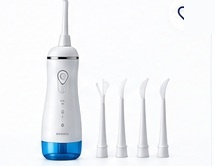
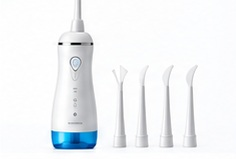
Add files via upload

diff --git a/styles.css b/styles.css
@@ -1,12 +1,1 @@
-*{box-sizing:border-box}body{margin:0;font-family:Arial;color:#06295b}a{text-decoration:none;color:inherit}.top{background:#0879d9;color:#fff;text-align:center;padding:10px;font-size:11px}header{height:64px;padding:0 10vw;display:grid;grid-template-columns:1fr 1fr 1fr;align-items:center;border-bottom:1px solid #e4ebf2}header>b{font-size:24px}span{color:#0aa9dc}header nav{text-align:center;font-size:12px}header>div{text-align:right;font-size:10px}.hero{height:365px;background:#e5f4fc;display:grid;grid-template-columns:1fr 1.05fr;overflow:hidden}.hero>div{padding-left:11vw;align-self:center}.hero small{font-size:10px;font-weight:bold}.hero h1{font-size:55px;line-height:.96;letter-spacing:-3px;margin:10px 0}.hero em{font-style:normal;color:#087df0}.hero p{line-height:1.5;color:#355574}.hero a{display:inline-block;background:#087df0;color:#fff;padding:14px 30px;border-radius:30px;font-weight:bold}.hero>img{width:100%;height:100%;object-fit:cover}.benefits{padding:22px 9vw;display:grid;grid-template-columns:repeat(4,1fr);border-bottom:1px solid #e4ebf2}.benefits p{margin:0;text-align:center;color:#087df0}.benefits b{font-size:11px;color:#06295b}.benefits small{display:block;color:#71849a;font-size:9px;margin-top:4px}.shop{padding:28px 5vw 35px}.head{display:flex;justify-content:space-between;align-items:center}.head h2{font-size:29px}.head a{font-size:10px;color:#087df0}.grid{display:grid;grid-template-columns:repeat(6,1fr);gap:12px}.grid article{border:1px solid #dfe7ef;border-radius:10px;overflow:hidden;padding-bottom:12px}.pic{height:175px;position:relative;overflow:hidden;background:#f7fafc}.pic img{width:100%;height:100%;object-fit:cover}.pic i{position:absolute;right:10px;top:9px;background:#fff;border-radius:50%;padding:6px;font-style:normal}.grid h3{font-size:11px;margin:12px;min-height:26px}.grid strong{display:block;margin:0 12px 10px}.grid button{width:calc(100% - 24px);margin:0 12px;padding:10px;border:0;border-radius:22px;background:#087df0;color:#fff;cursor:pointer}footer{background:#062d59;color:#fff;padding:40px 7vw;display:grid;grid-template-columns:2fr 1fr 2fr 1fr;align-items:end;font-size:10px}footer>b{font-size:22px}@media(max-width:1000px){.grid{grid-template-columns:repeat(3,1fr)}.pic{height:230px}}@media(max-width:650px){header{padding:0 18px;grid-template-columns:1fr 1fr}header nav{display:none}.hero{height:auto;grid-template-columns:1fr}.hero>div{padding:50px 24px}.hero h1{font-size:46px}.hero>img{height:300px}.benefits{grid-template-columns:1fr 1fr;gap:20px}.grid{grid-template-columns:1fr 1fr}.pic{height:220px}footer{grid-template-columns:1fr;gap:15px}}@media(max-width:430px){.grid{grid-template-columns:1fr}.pic{height:300px}}
-/* FINAL POLISH */
-.grid article{display:flex;flex-direction:column;height:100%}
-.grid h3{line-height:1.35;margin-bottom:8px}
-.grid strong{margin-top:auto}
-.grid button{font-weight:600;transition:transform .15s ease,opacity .15s ease}
-.grid button:hover{transform:translateY(-1px);opacity:.92}
-.pic{background:#f8fafc}
-.pic img{object-position:center center}
-.head{margin-bottom:4px}
-footer{min-height:110px}
-@media(max-width:1000px){.grid article{min-height:0}}
+*{box-sizing:border-box}html{scroll-behavior:smooth}body{margin:0;font-family:Arial,sans-serif;color:#06295b}a{text-decoration:none;color:inherit}.top{height:35px;background:#0879d9;color:#fff;text-align:center;padding:10px;font-size:11px}header{height:65px;padding:0 10vw;display:grid;grid-template-columns:1fr 1fr 1fr;align-items:center;border-bottom:1px solid #e5edf4;background:#fff}header>b{font-size:24px}span{color:#12a7dc}header nav{display:flex;justify-content:center;gap:36px;font-size:12px}header>div{text-align:right;font-size:10px}.hero{height:365px;display:grid;grid-template-columns:1fr 1.05fr;background:#e4f4fc;overflow:hidden}.hero>div{padding-left:11vw;align-self:center}.hero small{font-size:10px;font-weight:bold}.hero h1{font-size:55px;line-height:.96;letter-spacing:-3px;margin:10px 0 15px}.hero em{font-style:normal;color:#087df0}.hero p{color:#355574;line-height:1.5}.hero a{display:inline-block;background:#087df0;color:#fff;border-radius:28px;padding:14px 29px;font-weight:bold}.hero>img{width:100%;height:100%;object-fit:cover}.benefits{padding:22px 9vw;display:grid;grid-template-columns:repeat(4,1fr);border-bottom:1px solid #e4ebf2}.benefits>div{display:flex;justify-content:center;align-items:center;gap:12px;color:#087df0}.benefits p{margin:0;color:#06295b;font-size:11px}.benefits small{display:block;color:#74879c;font-size:9px;margin-top:4px}.shop{padding:40px 5vw}.heading{display:flex;justify-content:space-between;align-items:center}.heading h2{font-size:29px}.heading a{font-size:10px;color:#087df0}.grid{display:grid;grid-template-columns:repeat(6,1fr);gap:12px}.grid article{border:1px solid #dfe7ef;border-radius:10px;overflow:hidden;padding-bottom:12px;display:flex;flex-direction:column;background:#fff}.grid img{width:100%;height:180px;object-fit:cover;display:block}.grid h3{font-size:11px;margin:12px;min-height:27px}.grid strong{font-size:15px;margin:0 12px 10px;margin-top:auto}.grid button{margin:0 12px;border:0;border-radius:22px;padding:10px;background:#087df0;color:#fff;font-weight:bold;cursor:pointer}.about{padding:80px 8vw;background:#edf7fc}.about h2{font-size:45px;margin:0 0 12px}.about p{color:#4b6680}footer{background:#062d59;color:#fff;padding:40px 7vw;display:grid;grid-template-columns:2fr 1fr 2fr 1fr;align-items:end;font-size:10px}footer>b{font-size:22px}@media(max-width:1000px){.grid{grid-template-columns:repeat(3,1fr)}.grid img{height:230px}}@media(max-width:650px){header{padding:0 18px;grid-template-columns:1fr 1fr}header nav{display:none}.hero{height:auto;grid-template-columns:1fr}.hero>div{padding:50px 24px}.hero h1{font-size:46px}.hero>img{height:300px}.benefits{grid-template-columns:1fr 1fr;gap:20px}.grid{grid-template-columns:1fr 1fr}.grid img{height:220px}footer{grid-template-columns:1fr;gap:15px}}@media(max-width:430px){.grid{grid-template-columns:1fr}.grid img{height:300px}}

diff --git a/index.html b/index.html
@@ -1,12 +1,16 @@
 <!doctype html><html lang="en"><head><meta charset="utf-8"><meta name="viewport" content="width=device-width,initial-scale=1"><title>VITALDENTSK</title><link rel="stylesheet" href="styles.css"></head><body>
-<div class="top">🚚 Free Shipping on Orders Over $50　|　Better Care. Brighter Smiles.</div><header><b>♡ VITAL<span>DENTSK</span></b><nav>Home　　<a href="#shop">Shop</a>　　About　　Contact</nav><div>⌕ Search　 🛒 <i id="cart">0</i>　☰</div></header>
-<section class="hero"><div><small>PREMIUM ORAL CARE</small><h1>Better Care.<br><em>Brighter Smiles.</em></h1><p>Modern dental products designed for a healthier,<br>cleaner and more confident smile.</p><a href="#shop">Shop Now　→</a></div><img src="hero.jpg"></section>
-<section class="benefits"><p>♢ <b>High Quality</b><small>Trusted Products</small></p><p>▣ <b>Fast Shipping</b><small>On Orders Over $50</small></p><p>♧ <b>Everyday Care</b><small>Simple oral routines</small></p><p>♙ <b>Made for You</b><small>Modern essentials</small></p></section>
-<section class="shop" id="shop"><div class="head"><h2>Featured Products</h2><a>View All Products →</a></div><div class="grid">
-<article><div class="pic"><img src="product1.jpg"></div><h3>Sonic Toothbrush Pro</h3><strong>$49.99</strong><button>Add to Cart</button></article>
-<article><div class="pic"><img src="product2.jpg"></div><h3>Manual Toothbrush Set</h3><strong>$14.99</strong><button>Add to Cart</button></article>
-<article><div class="pic"><img src="product3.jpg"></div><h3>Dental Floss (3 Pack)</h3><strong>$12.99</strong><button>Add to Cart</button></article>
-<article><div class="pic"><img src="product4.jpg"></div><h3>Water Flosser</h3><strong>$59.99</strong><button>Add to Cart</button></article>
-<article><div class="pic"><img src="product5.jpg"></div><h3>Travel Oral Care Kit</h3><strong>$29.99</strong><button>Add to Cart</button></article>
-<article><div class="pic"><img src="product6.jpg"></div><h3>Replacement Brush Heads</h3><strong>$19.99</strong><button>Add to Cart</button></article></div></section>
-<footer><b>♡ VITAL<span>DENTSK</span></b><p>Better Care. Brighter Smiles.</p><p>Home　Shop　About　Contact</p><small>© 2026 VITALDENTSK</small></footer><script src="script.js"></script></body></html>
+<div class="top">🚚 Free Shipping on Orders Over $50　 |　 Better Care. Brighter Smiles.</div>
+<header><b>♡ VITAL<span>DENTSK</span></b><nav><a href="#">Home</a><a href="#shop">Shop</a><a href="#about">About</a><a href="#contact">Contact</a></nav><div>⌕ Search　 🛒 <i id="cart">0</i>　☰</div></header>
+<section class="hero"><div><small>PREMIUM ORAL CARE</small><h1>Better Care.<br><em>Brighter Smiles.</em></h1><p>Modern dental products designed for a healthier,<br>cleaner and more confident smile.</p><a href="#shop">Shop Now　→</a></div><img src="hero.jpg" alt="VITALDENTSK oral care"></section>
+<section class="benefits"><div>◇ <p><b>High Quality</b><small>Trusted Products</small></p></div><div>▣ <p><b>Fast Shipping</b><small>On qualifying orders</small></p></div><div>♧ <p><b>Everyday Care</b><small>Simple oral routines</small></p></div><div>♙ <p><b>Made for You</b><small>Modern essentials</small></p></div></section>
+<section class="shop" id="shop"><div class="heading"><h2>Featured Products</h2><a href="#shop">View All Products →</a></div><div class="grid">
+<article><img src="product1.jpg"><h3>Sonic Toothbrush Pro</h3><strong>$49.99</strong><button>Add to Cart</button></article>
+<article><img src="product2.jpg"><h3>Manual Toothbrush Set</h3><strong>$14.99</strong><button>Add to Cart</button></article>
+<article><img src="product3.jpg"><h3>Dental Floss (3 Pack)</h3><strong>$12.99</strong><button>Add to Cart</button></article>
+<article><img src="product4.jpg"><h3>Water Flosser</h3><strong>$59.99</strong><button>Add to Cart</button></article>
+<article><img src="product5.jpg"><h3>Travel Oral Care Kit</h3><strong>$29.99</strong><button>Add to Cart</button></article>
+<article><img src="product6.jpg"><h3>Replacement Brush Heads</h3><strong>$19.99</strong><button>Add to Cart</button></article>
+</div></section>
+<section id="about" class="about"><h2>Better everyday oral care.</h2><p>Clean design. Simple routines. Modern essentials.</p></section>
+<footer id="contact"><b>♡ VITAL<span>DENTSK</span></b><p>Better Care. Brighter Smiles.</p><p>Home　 Shop　 About　 Contact</p><small>© 2026 VITALDENTSK</small></footer>
+<script src="script.js"></script></body></html>

diff --git a/script.js b/script.js
@@ -1,1 +1,1 @@
-let n=0,c=document.getElementById('cart');document.querySelectorAll('button').forEach(b=>b.onclick=()=>{c.textContent=++n;b.textContent='✓ Added';setTimeout(()=>b.textContent='Add to Cart',700)});
+let n=0,c=document.getElementById('cart');document.querySelectorAll('.grid button').forEach(b=>b.onclick=()=>{c.textContent=++n;b.textContent='✓ Added';setTimeout(()=>b.textContent='Add to Cart',700)});

diff --git a/README.md b/README.md
@@ -1,7 +1,8 @@
-VITALDENTSK — NO HEARTS FINAL
+VITALDENTSK CLEAN WEB FINAL
 
-Esta versión elimina los corazones incrustados directamente en las imágenes JPG
-y también cualquier corazón añadido por HTML.
+No favorite-heart overlays are included in the HTML product cards.
+The product images were newly extracted from the clean design.
 
-Sube y REEMPLAZA index.html, styles.css, script.js, hero.jpg y product1.jpg-product6.jpg
-en la raíz del repositorio vitaldentsk-store.
+Upload ALL extracted files to the root of vitaldentsk-store and replace the old versions.
+
+Commercial prices and shipping claims are demo content until finalized.
